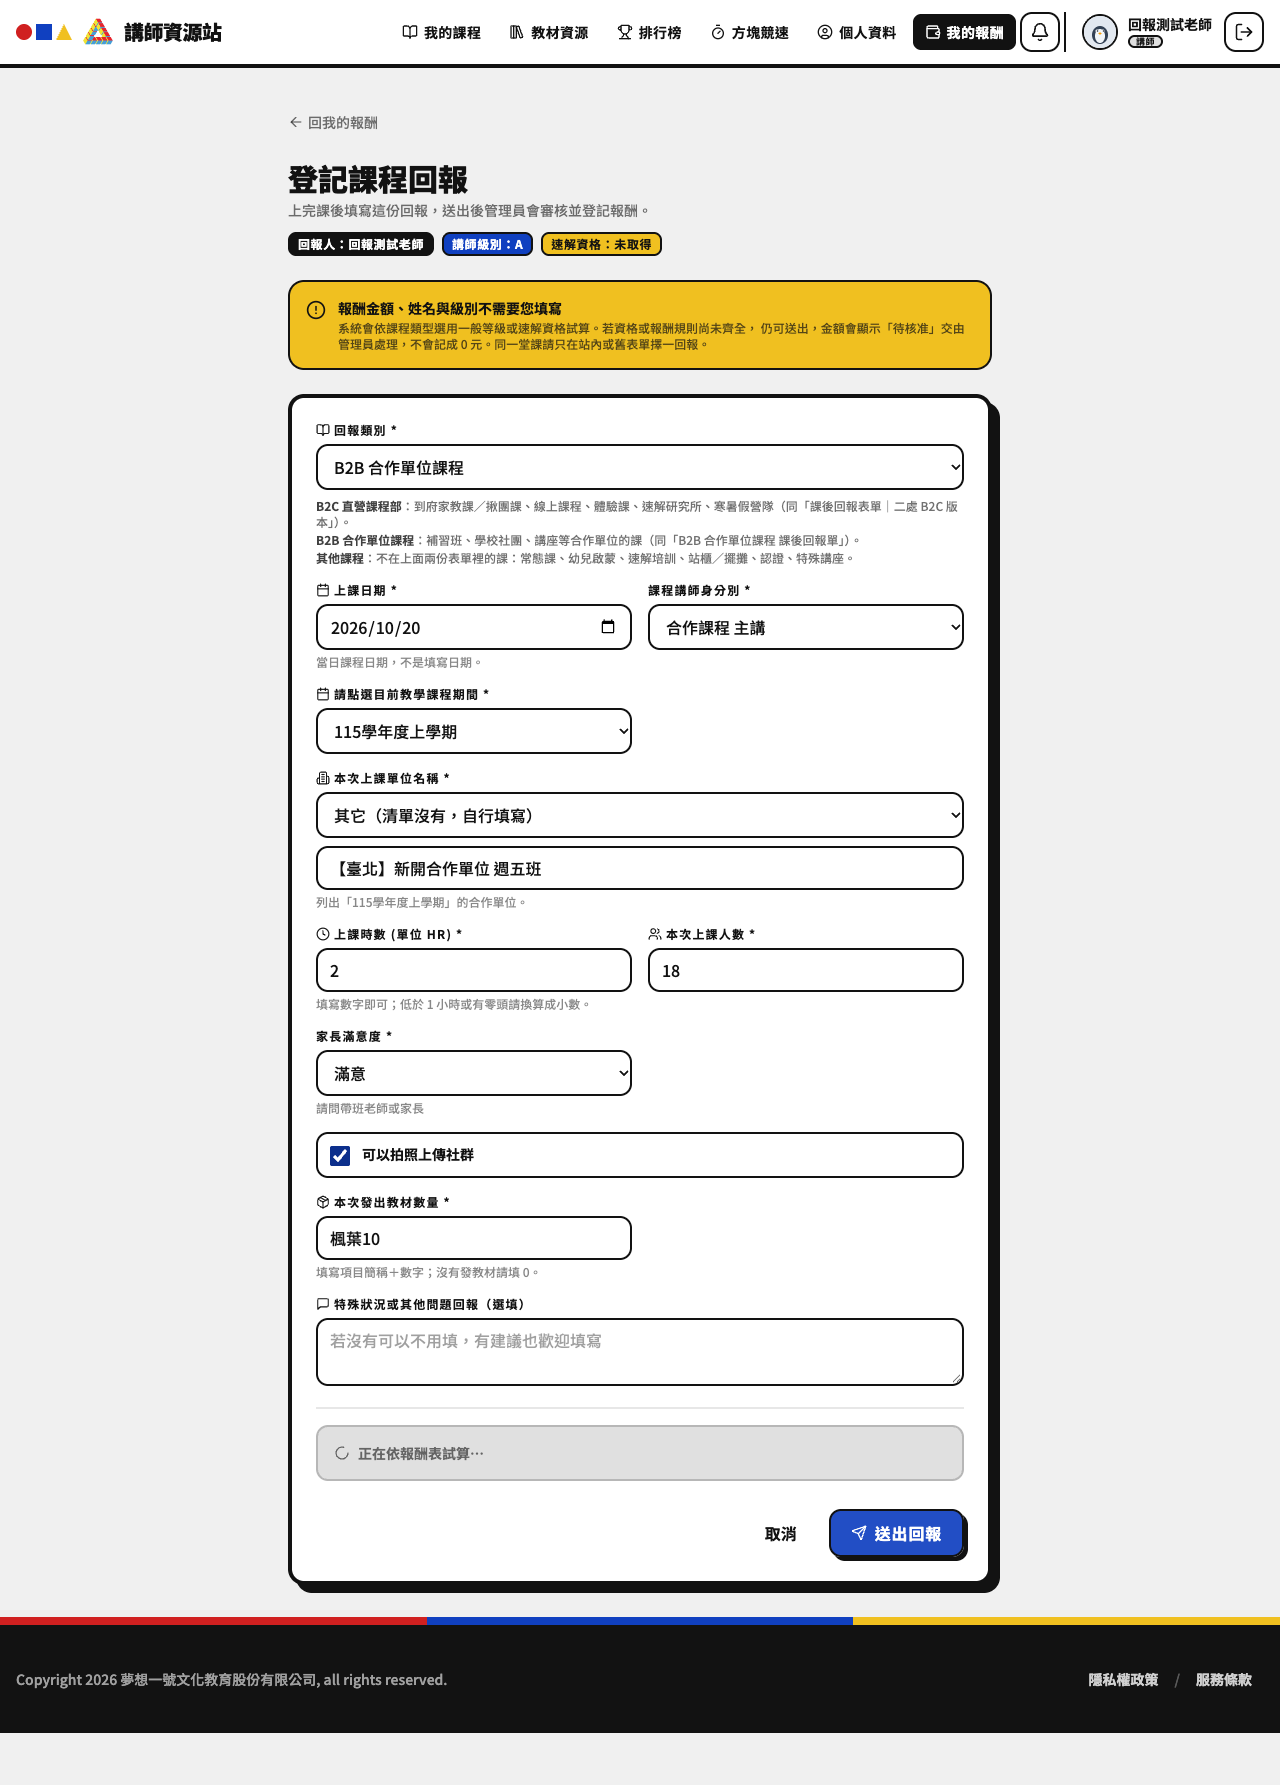
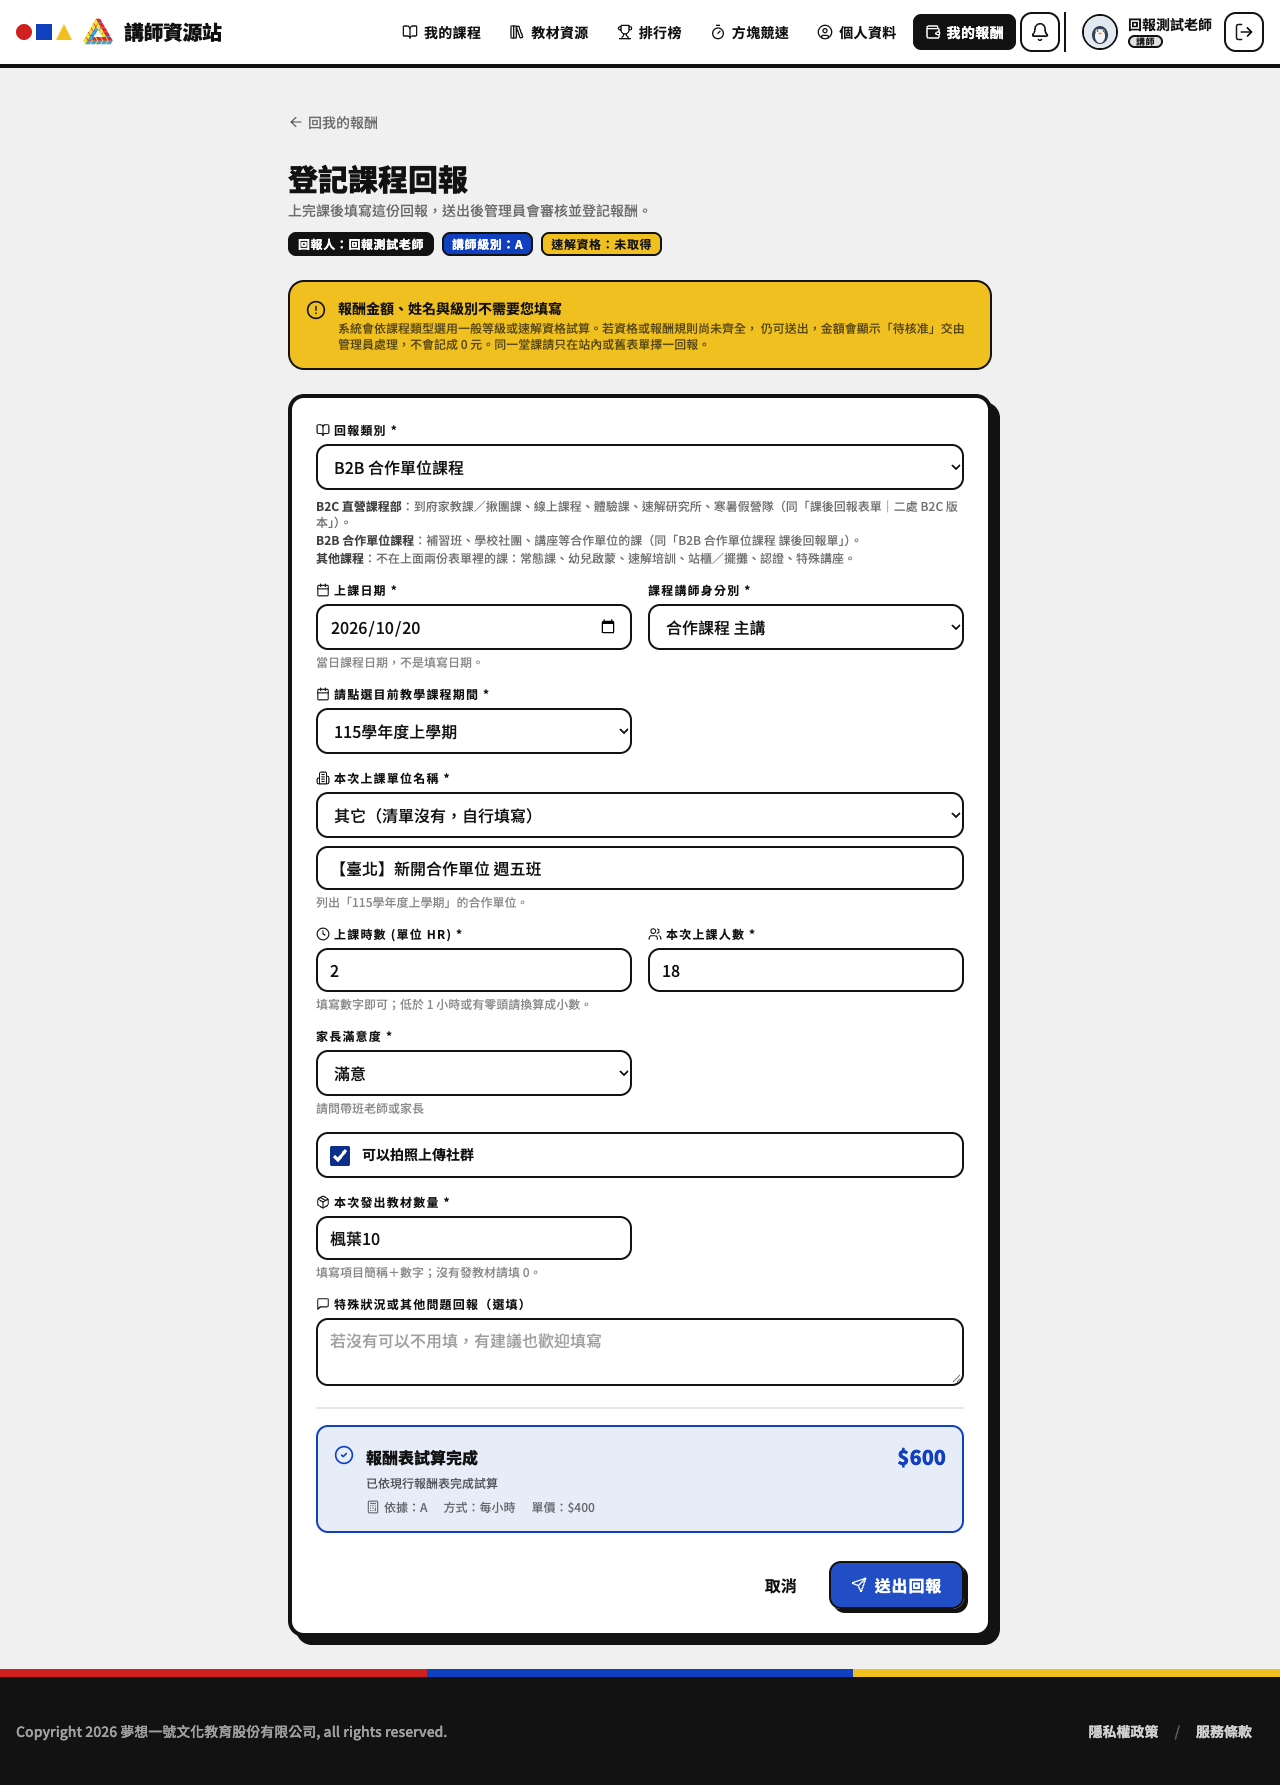
docs(status): record report options v4 (drag sort, per-period lists, configurable report fields)

Changed region(s): [[0.0, 0.8011, 1.0, 1.0]]

diff --git a/STATUS.md b/STATUS.md
@@ -1,9 +1,35 @@
 # STATUS — 夢想一號培訓平台
 
 > 會變的進度狀態放這裡。不變的事實看 [CLAUDE.md](CLAUDE.md)，長期方向看 [ROADMAP.md](ROADMAP.md)。
-> 最後更新：2026-10-20（總指揮統一整合上線，見下方「2026-10-20 總指揮發版」段）；2026-10-19（表單新講師 10 位已在正式庫建檔；回報頁交通補助加業主備註（15 公里、事先和課程經理確認、交通方式提前報備）已上線；薪資總表換新已完成：舊 5 月匯入 9,532 筆搬隔離區、業主確認正確的 5,535 筆成為正式資料，另 25 筆推估更正已套用；後台薪資登記中心改伺服器端篩選＋分頁已上線；回報頁第二版：欄位與選項對齊兩份 Google 表單已上線；第一版三層選單已上線；講師簽約正式重開已上線，待業主真帳號端到端；本日三批皆已上線：課程回報對齊 Google 表單欄位、講師薪資可見範圍 2026-01 起＋參考表權限收緊、後台回報選項管理頁）。
+> 最後更新：2026-10-20（回報選項管理改版：拖曳排序、每期各一份清單、回報表單欄位可設定——本機驗證完成，待總指揮套 migration＋部署；總指揮統一整合上線，見下方「2026-10-20 總指揮發版」段）；2026-10-19（表單新講師 10 位已在正式庫建檔；回報頁交通補助加業主備註（15 公里、事先和課程經理確認、交通方式提前報備）已上線；薪資總表換新已完成：舊 5 月匯入 9,532 筆搬隔離區、業主確認正確的 5,535 筆成為正式資料，另 25 筆推估更正已套用；後台薪資登記中心改伺服器端篩選＋分頁已上線；回報頁第二版：欄位與選項對齊兩份 Google 表單已上線；第一版三層選單已上線；講師簽約正式重開已上線，待業主真帳號端到端；本日三批皆已上線：課程回報對齊 Google 表單欄位、講師薪資可見範圍 2026-01 起＋參考表權限收緊、後台回報選項管理頁）。
 
 ---
+
+## 🗂 2026-10-20：回報選項管理改版——拖曳排序、每個期間各一份清單、回報表單欄位可設定（✅ 本機驗證完成；🟡 分支 `feat/report-options-v4`，待總指揮套 migration＋部署）
+
+**需求（業主 2026-10-20）**：回報選項管理「要變成是拖曳的，一列太多東西太厚、不直覺」；「上面會有多個不同期間，像是2026寒假，然後下面就會出現對應的選單內容」；「整個報酬登記的地方也要可以設定欄位，新增或是刪除都要可以做到」。
+業主三選一皆選建議方案：①每個期間各一份單位清單（新增期間可從某期複製）；②營隊梯次也掛在期間底下；③講師回報表單可加自訂欄位、可隱藏非計酬欄位，算報酬用的欄位（期間、單位、梯次、時數、人數、角色、學習進度）鎖住不給刪。
+
+**做法**：
+- **migration `培訓web/supabase/migrations/20261020120000_report_periods_and_custom_fields.sql`**（可重跑、不刪資料）：`salary_report_options` 加 `period_id`（單位／梯次掛期間）；UNIQUE (kind, value) 換成「期間代碼唯一」＋「同一期間內同名唯一」；回填學期間 30 筆→115學年度上學期、寒暑假 48 筆→2026年寒假並**複製一份 48 筆給 2026年暑假**（複本 term_scope=NULL，舊前端看不到，不會重複）、營隊梯次 31 筆→2026年暑假；`term_scope` 停用但保留；`class_sessions` 拿掉期間三選一 CHECK（新期間有自己的代碼）、加 `extra_fields jsonb`（自訂欄位答案，存「當時欄位名稱＋內容」快照）；新表 `salary_report_fields`（24 筆種子＝目前回報頁欄位與順序；system/builtin/custom；trigger 擋刪內建、隱藏或改必填算報酬欄位、後台只能新增 custom；RLS：講師只讀顯示中的、管理員全權）；拖曳排序 RPC `reorder_salary_report_options`／`reorder_salary_report_fields`（SECURITY INVOKER＋管理員檢查，單一交易寫 10、20、30…，只能排同一份清單）；`submit_my_class_session` 改 16 參數（期間改查選項表、須啟用；`p_extra_fields` 只收顯示中的自訂欄位、名稱以資料庫為準）；檔尾 `NOTIFY pgrst`。
+- **後台 `/admin/salary/options`**（sonnet agent 實作、主對話覆核）：兩個分頁「下拉選單內容」「回報表單欄位」。期間 chip 列可拖曳、可新增（預設從目前期間**只複製上課單位**；營隊梯次帶日期不複製，避免講師下拉出現兩組同名梯次）、改名、停用；選中期間下方是上課單位與營隊梯次兩區，每列單行約 52px：拖曳把手＋名稱＋改名＋啟用開關。欄位分頁四個版面（B2C 直營／B2B 合作／營隊／其他），系統欄位鎖頭、內建欄位顯示／必填開關、自訂欄位新增／編輯／刪除（行內確認）。拖曳用 @dnd-kit（core 6.3.1、sortable 10.0.0、utilities 3.2.2，新增依賴），滑鼠、觸控長按、鍵盤皆可。
+- **講師回報頁 `MySalaryNew.jsx`**：回報類別、日期、課程種類、報酬項目固定在最上面，其後欄位照後台設定的順序畫；隱藏的內建欄位不顯示、不驗證、不送出；自訂欄位（單行／多行文字、數字、下拉、是否）；合作單位跟著選到的期間、營隊梯次依期間分組並送出梯次所屬期間；設定或選項讀不到時退回預設欄位與自由輸入；填寫途中管理員改了欄位 → 送出被擋時自動重新載入欄位、已填內容保留。B2B「教材數量」原本標 * 卻沒擋，現在照標示必填（後台可改）。另修總指揮提的「今天」日期只在載入時算一次的問題。
+- **後台報酬登記中心**：期間名稱改讀資料庫（新期間正常顯示）；審核視窗加顯示期間／單位／教材／交通補助與自訂欄位答案；列表顯示「自訂欄位 N 項」。
+
+**驗證（主對話 2026-10-20 親跑，已併入 origin/main `c8842e7` 後重跑）**：`npm test` 128/128；`npm run build` 通過；改動檔 ESLint 0（全站剩 5 個舊問題在 ContractView／AssignmentReview／ProgressOverview／FieldPositionEditor，非本次）；
+`npm run verify:salary-report-form`（臨時 PostgreSQL，含新段落 (i) 7 組：連跑兩次、回填 48／30／48／31、舊前端 term_scope 視角仍 48／30、唯一性與 CHECK、管理員新增期間複製清單、欄位守門、排序 RPC 權限、RPC 新期間／停用期間／自訂欄位快照／未知或隱藏欄位擋、改名刪除後快照不變、新建庫路徑）全 PASS；
+`verify:salary-report-form:browser` 63/63、`verify:salary-report-options:browser` 99/99、`verify:salary-register-paging:browser` 38/38、`verify:speed-salary:browser` 13/13、`verify:salary-visibility` 全 PASS（需 `LC_ALL=en_US.UTF-8`，否則臨時資料庫起不來）。
+截圖 18 張：`培訓web/docs/verification/2026-10-20-report-options-v4/`（7）、`培訓web/docs/verification/2026-10-20-report-form-fields/`（11），由另一個 sonnet agent 判讀 8 項驗收全過（列高約 54px、期間 chip＋下方兩區、欄位分頁鎖頭／開關、390px 無溢出、B2B 欄位順序、審核視窗顯示自訂欄位答案）。opus 審查：無高嚴重度；中低 5 項已修 4 項（NOTIFY、只複製單位、期間名稱讀取失敗的顯示、欄位更新後自動重載），第 5 項見地雷。
+
+**上線步驟（給總指揮）**：① 正式庫 SQL Editor 套 `20261020120000_report_periods_and_custom_fields.sql`（以無登入身分執行；套完核對：選項 160 筆＝期間 3＋單位 126＋梯次 31、無期間的單位／梯次 0、`salary_report_fields` 24 筆、`submit_my_class_session` 只有 1 個 16 參數版本）；② 再部署前端。順序反了，新前端讀 `period_id`／`salary_report_fields` 會失敗 → 退回預設欄位與自由輸入（仍可回報，但沒有單位下拉）。
+**半成品**：無（程式完成，未上線）。
+**下一步**：上線後業主用管理員帳號實際拖曳一次、新增一個「115學年度下學期」（從 115學年度上學期複製）確認正式庫寫入；講師真帳號看一次回報頁。
+**地雷**：
+- 套 migration 到部署前端之間的空窗，**不要用後台回報選項管理頁**：舊版新增單位會被新約束擋、「移到另一組」改的是已停用的 term_scope（上線後等於沒做）。
+- 換新學期請「新增期間」不要改名：講師回報存的是期間代碼，改名會讓這個期間的舊紀錄一起換名字。
+- 自訂欄位的「必填」只在前端擋（與既有表單必填一致），直接打 RPC 可略過；不影響金額。
+- 到府課（總指揮轉來，**待業主決定**）：報酬表的到府規則只有剛好 1.5 與 2 小時兩種，表單的 1、2.5、3 小時會落到「待核准」由管理員人工填金額（不會算 0 元）；要不要比照某條規則計算是金額決策，本次未改。
+
 
 ## 🪪 2026-10-20：講師證件搬進系統儲存空間＋個人頁儲存修正（✅ 證件已在正式庫；🟡 程式修正在分支，待總指揮上線）
 
